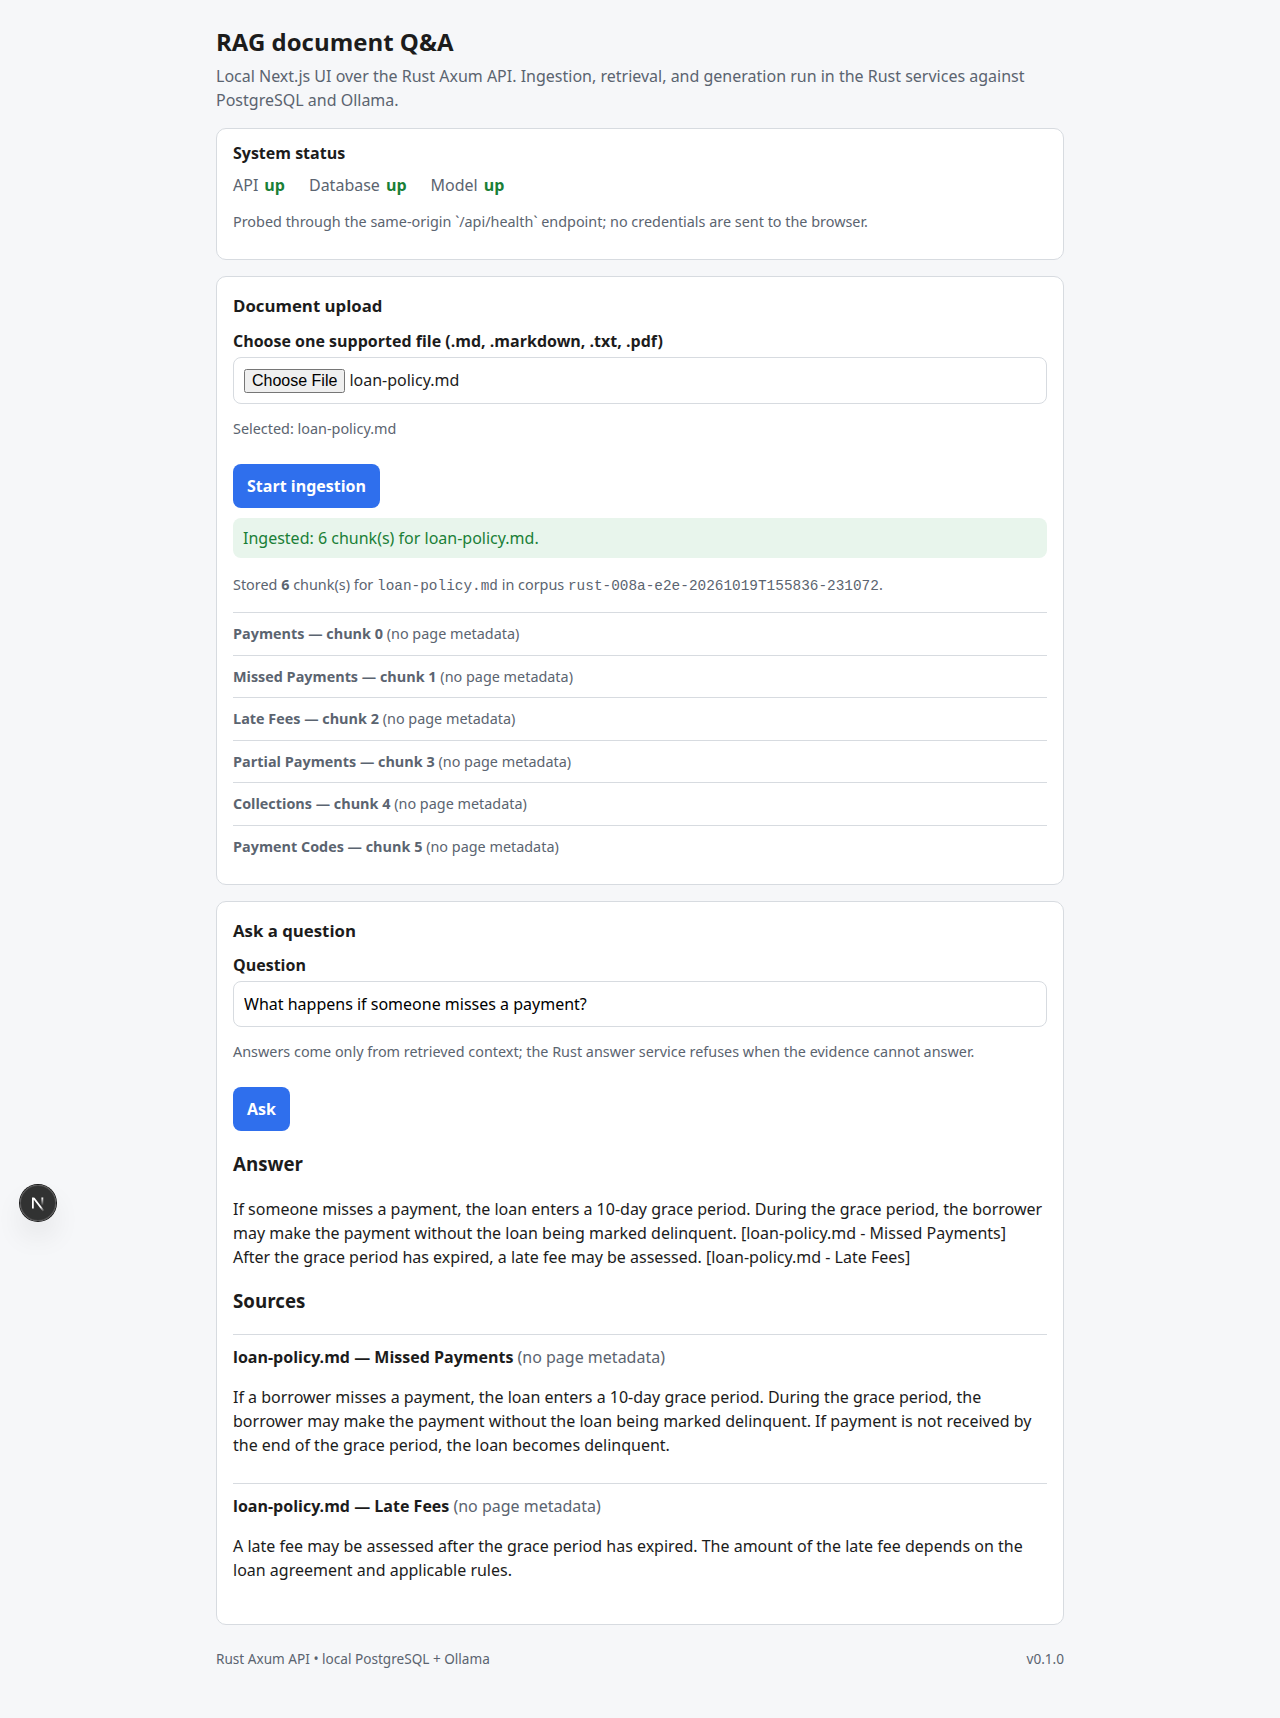
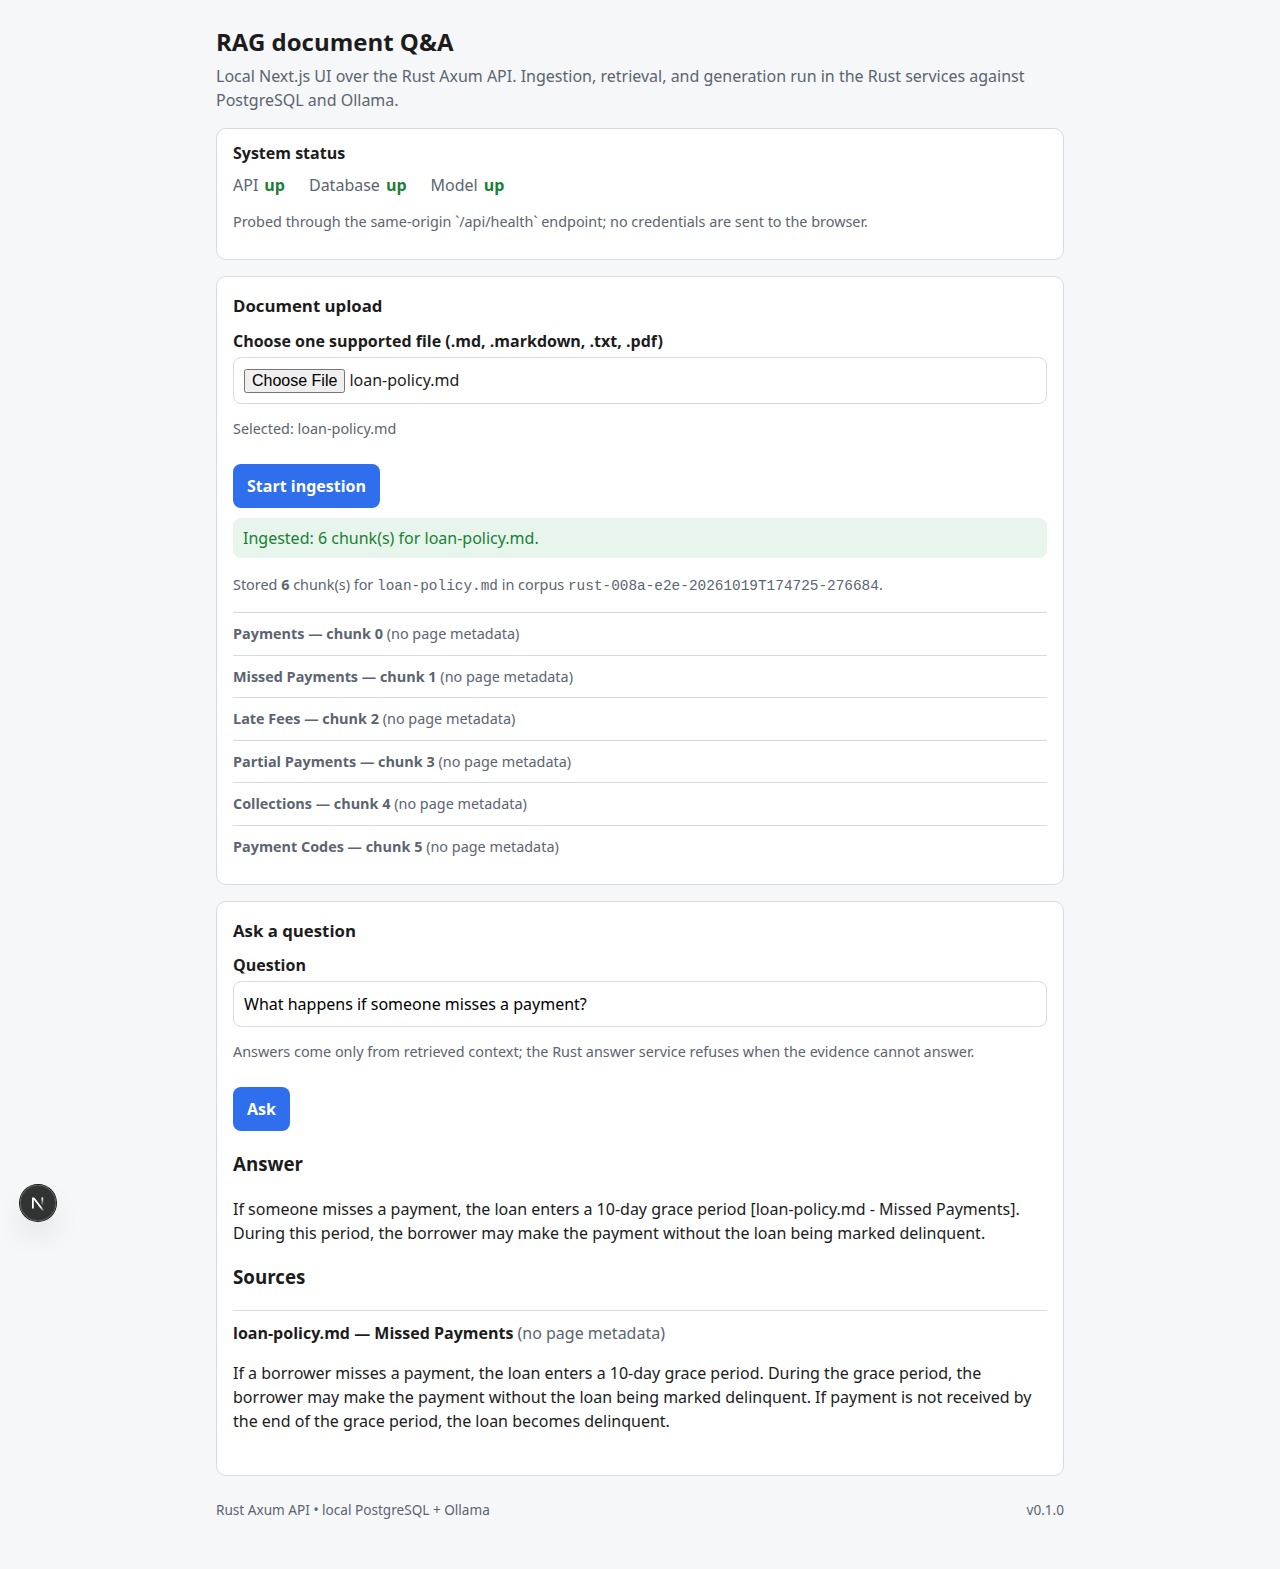
RUST-008: record final acceptance and remove mock-only label
SOP verified RUST-008 as VERIFIED/LOCAL_DONE after operator acceptance of the three manual criteria. Remove the now-obsolete mock-only banner, preserve the acceptance-run screenshots, and record the post-removal rust-check, web-check, and web-e2e results.

diff --git a/docs/reports/rust-migration/RUST-008-final-acceptance.md b/docs/reports/rust-migration/RUST-008-final-acceptance.md
@@ -1,0 +1,144 @@
+# RUST-008 — final acceptance evidence
+
+Date: 2026-10-19. Source revision: `2f067a2b0dcc13f9306e591f950741ae76f391fd`
+(`rust-008-final-acceptance`). Installed SOP:
+`7540edc9bc2b3bb5a9c6cfe4f3799021b807e085` (`sop dev`).
+
+This document records the operator-run evidence for the three manual RUST-008
+criteria. The deterministic Rust criteria are covered by the commands below;
+the manual criteria cover startup documentation and real-browser behavior.
+
+## Environment
+
+| Component | Value |
+| --- | --- |
+| Rust | `rustc 1.99.1 (58cf8f9c3 2026-10-13)` |
+| Cargo | `--locked` with the committed `Cargo.lock` |
+| Node / npm | `v24.21.0` / `11.19.0` (declared range `>=20 <25`, `>=10 <12`) |
+| PostgreSQL | local PostgreSQL 16 with pgvector, dedicated `rag_migration_test` database |
+| Ollama | local runtime; `nomic-embed-text` for embeddings and `llama3.2:3b` for generation |
+| Browser | Playwright Chromium (through `make web-e2e`) |
+
+The run used a unique corpus (`rust-008a-e2e-20261019T171356-263813`) and deleted
+only that corpus afterwards. No shared data was removed.
+
+## Startup commands and browser URL (criterion 1)
+
+Documented in `README.md` and `web/README.md`:
+
+```sh
+cargo build --locked --bin api
+target/debug/api                  # Axum API, 127.0.0.1:8080
+make web-start                    # Next.js, 127.0.0.1:3000
+```
+
+Browser URL: **http://127.0.0.1:3000**
+
+`API_HOST` and `API_PORT` override the Axum bind address. `API_URL` and the
+database/model settings stay server-side; the browser receives neither.
+
+## Deterministic and integration gates
+
+| Command | Result |
+| --- | --- |
+| `make rust-check` | **PASS** — fmt, build, tests, Clippy (`-D warnings`), evidence, final-layout, clean-checkout |
+| `make rust-acceptance-api-contract` | **PASS** — 1 contract test |
+| `make rust-acceptance-functional` | **PASS** — K=3 parity (1) and Markdown/text ingestion (1) |
+| `make rust-acceptance-live-rag` | **PASS** — 2 tests (live evidence + production ingest/query/cited answer) |
+| `make web-check` | **PASS** — `tsc --noEmit` and `next build` |
+| `make web-e2e` | **PASS** — 5 Playwright tests in 12.9s |
+
+No Go toolchain is required: `acceptance/final_layout` and
+`acceptance/clean_checkout` pass, and the repository contains no `go.mod`,
+`go.sum`, or Go sources.
+
+## Upload → ingest → question → cited answer (criterion 2)
+
+`make web-e2e` drove the real browser against the real Axum API, PostgreSQL, and
+Ollama. Verified in Chromium:
+
+1. Empty state renders and `/api/health` reports `API up`, `Database up`, and
+   `Model up`.
+2. PDF upload (`fixtures/parity/inputs/text-layer.pdf`) ingests with page
+   provenance; the page-two question returns an answer and a `text-layer.pdf —
+   Page 2` citation with page 2.
+3. Markdown upload (`examples/loan-policy.md`) stores 6 chunks with sections;
+   the missed-payment question returns a grounded `loan-policy.md — Missed
+   Payments` citation.
+4. Every browser `/api/*` request was same-origin `http://127.0.0.1:3000/api/`;
+   no request reached the Axum port `127.0.0.1:8080` directly.
+
+Screenshots from the acceptance run (preserved with the mock-only label
+visible):
+
+- `docs/reports/rust-migration/web-e2e/rust-008-acceptance/pdf-page-answer.png`
+- `docs/reports/rust-migration/web-e2e/rust-008-acceptance/markdown-answer.png`
+
+## UI states (criterion 3)
+
+`make web-e2e` covers each required state in the real browser:
+
+| State | Test | Screenshot |
+| --- | --- | --- |
+| Loading | pending-query indicator | `web-e2e/rust-008-acceptance/loading-state.png` |
+| Empty | initial empty state (test 1) | `web-e2e/rust-008-acceptance/markdown-answer.png` (populated), test assertion `empty-state` |
+| Connection failure | `/api/health` aborted; visible error and `down` status | `web-e2e/rust-008-acceptance/connection-failure.png` |
+| Extraction error | incomplete PDF rejected; page 2 named | `web-e2e/rust-008-acceptance/extraction-error.png` |
+| Insufficient evidence | no-context refusal state | `web-e2e/rust-008-acceptance/insufficient-evidence.png` |
+
+The incomplete-PDF case returns `422 incomplete_pdf` before embedding or any
+database write, as asserted by the Rust `api_contract` test.
+
+## Intentional differences
+
+The RUST-008A contract differences remain in force and are recorded in
+`docs/reference/rust-008a-browser-evidence.md`: incomplete PDFs return `422`
+with `incomplete_pages`, the document-status endpoint is added, `top_k` is
+validated but server settings govern retrieval, and `sources[].text` is the
+cited passage body.
+
+## Mock-only label removed
+
+The plan required an explicit mock-only label until the real Rust API and
+pipeline passed end-to-end verification. That verification passed, the operator
+accepted the three manual criteria, and SOP recorded RUST-008 as
+`VERIFIED / LOCAL_DONE`; the banner (`web/src/components/MockOnlyBanner.tsx`
+and its mount in `web/src/app/layout.tsx`) was then removed. The acceptance
+screenshots above were captured while the label was still present; the
+post-removal UI is covered by the rerun results below.
+
+## Operator decision (recorded)
+
+The operator reviewed this evidence and recorded the three evidence-bound
+acceptance decisions, then approved the SOP gate:
+
+```sh
+sop outcome RUST-008 --accept criterion-1 \
+  --evidence docs/reports/rust-migration/RUST-008-final-acceptance.md --by operator
+sop outcome RUST-008 --accept criterion-2 \
+  --evidence docs/reports/rust-migration/RUST-008-final-acceptance.md --by operator
+sop outcome RUST-008 --accept criterion-3 \
+  --evidence docs/reports/rust-migration/RUST-008-final-acceptance.md --by operator
+sop approve RUST-008 --by operator
+```
+
+SOP then reported `outcome: VERIFIED`, `validation: passed`, and
+`lifecycle: LOCAL_DONE` (22/22 tasks, final gate PASS).
+
+## Post-removal verification
+
+After the banner was deleted and its mount removed from
+`web/src/app/layout.tsx`, the affected checks were rerun:
+
+| Command | Result |
+| --- | --- |
+| `make web-check` | **PASS** — `tsc --noEmit` and `next build` |
+| `make web-e2e` | **PASS** — 5 Playwright tests in 13.3s |
+| `make rust-check` | **PASS** — fmt, build, tests, Clippy, evidence, final-layout, clean-checkout |
+| `sop verify RUST-008` | **VERIFIED**, validation passed, `LOCAL_DONE`; all seven criteria met |
+
+The post-removal browser run used corpus
+`rust-008a-e2e-20261019T174725-276684`, regenerated the screenshots at
+`docs/reports/rust-migration/web-e2e/*.png` without the banner, and deleted only
+that run's corpus. The original acceptance screenshots are preserved under
+`docs/reports/rust-migration/web-e2e/rust-008-acceptance/`.

diff --git a/docs/reports/rust-migration/README.md b/docs/reports/rust-migration/README.md
@@ -20,6 +20,8 @@ Evidence for `docs/plans/PLAN-RUST-MIGRATION.md`. Reference SHA frozen by RUST-0
 | `RUST-007E-k3-parity.md` | RUST-007E original K=3 parity: frozen Go reference vs Rust `eval`, ranking order, and metrics |
 | `RUST-007E-md-text-ingestion.md` | RUST-007E production Markdown/plain-text ingestion, provenance, and transactional safety |
 | `web-e2e/` | RUST-008A Playwright screenshots for the real browser flow and UI states |
+| `web-e2e/rust-008-acceptance/` | RUST-008 acceptance-run screenshots preserved with the then-required mock-only label |
+| `RUST-008-final-acceptance.md` | RUST-008 operator evidence, six passing gates, post-banner-removal verification, and the SOP `VERIFIED / LOCAL_DONE` verdict |
 | `sop-cargo-support.patch` | Reviewed SOP Cargo-support patch, base `a46187b` (SHA-256 `79dd707e…b893`) |
 | `sop-cargo-support-integrated.patch` | The same patch integrated onto current `origin/main` `a9f0495` (SHA-256 `48530f34…4ac6`) |
 

diff --git a/web/README.md b/web/README.md
@@ -78,6 +78,16 @@ uses a unique corpus, and deletes only that corpus afterwards. Evidence and
 screenshots are recorded under `docs/reports/rust-migration/web-e2e/` and
 summarized in `docs/reference/rust-008a-browser-evidence.md`.
 
+## UI state mapping
+
+| Axum error / condition | UI state |
+| --- | --- |
+| loading request in flight | loading |
+| no documents ingested | empty |
+| `/api/health` unreachable (`dependency_unavailable`) | connection-failure |
+| `incomplete_pdf`, `no_sections`, `extraction_failed` | extraction-error |
+| `insufficient: true` in `/api/query` | insufficient-evidence |
+
 ## API contract
 
 The browser-facing contract is in

diff --git a/docs/reference/rust-008a-browser-evidence.md b/docs/reference/rust-008a-browser-evidence.md
@@ -112,3 +112,8 @@ through SOP.
 - `make transition-evidence` — RUST-007B transition/clean-checkout checks
 
 Go remains present and operational; RUST-007C was not started.
+
+> Historical note: RUST-007C later completed the Rust-only transition (the Go
+tree and Go tooling were removed and the Rust package moved to the repository
+root), and RUST-008 recorded the final `VERIFIED / LOCAL_DONE` acceptance. See
+`docs/reports/rust-migration/RUST-008-final-acceptance.md`.
